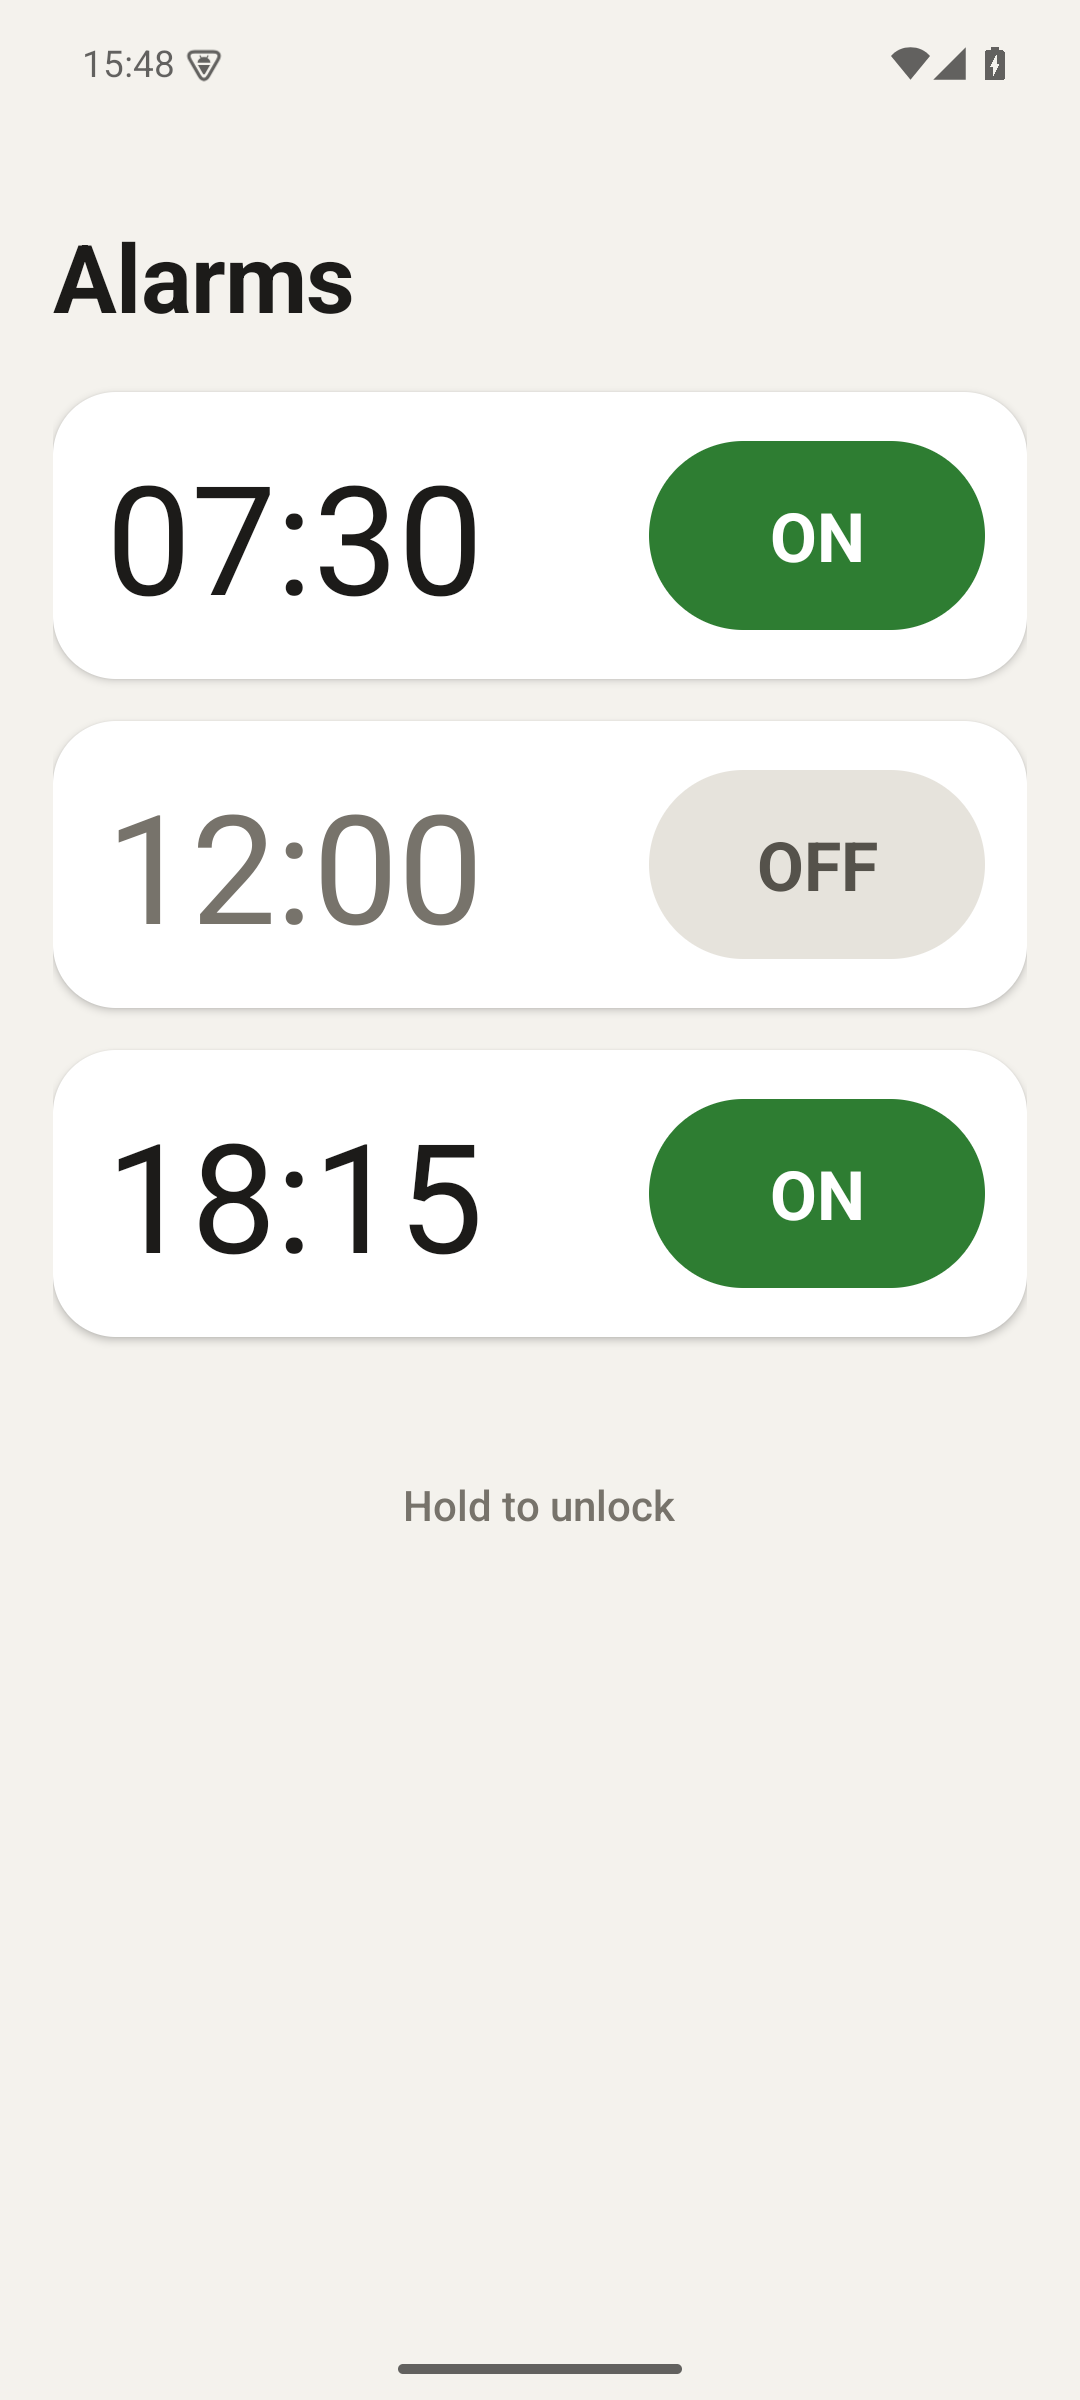
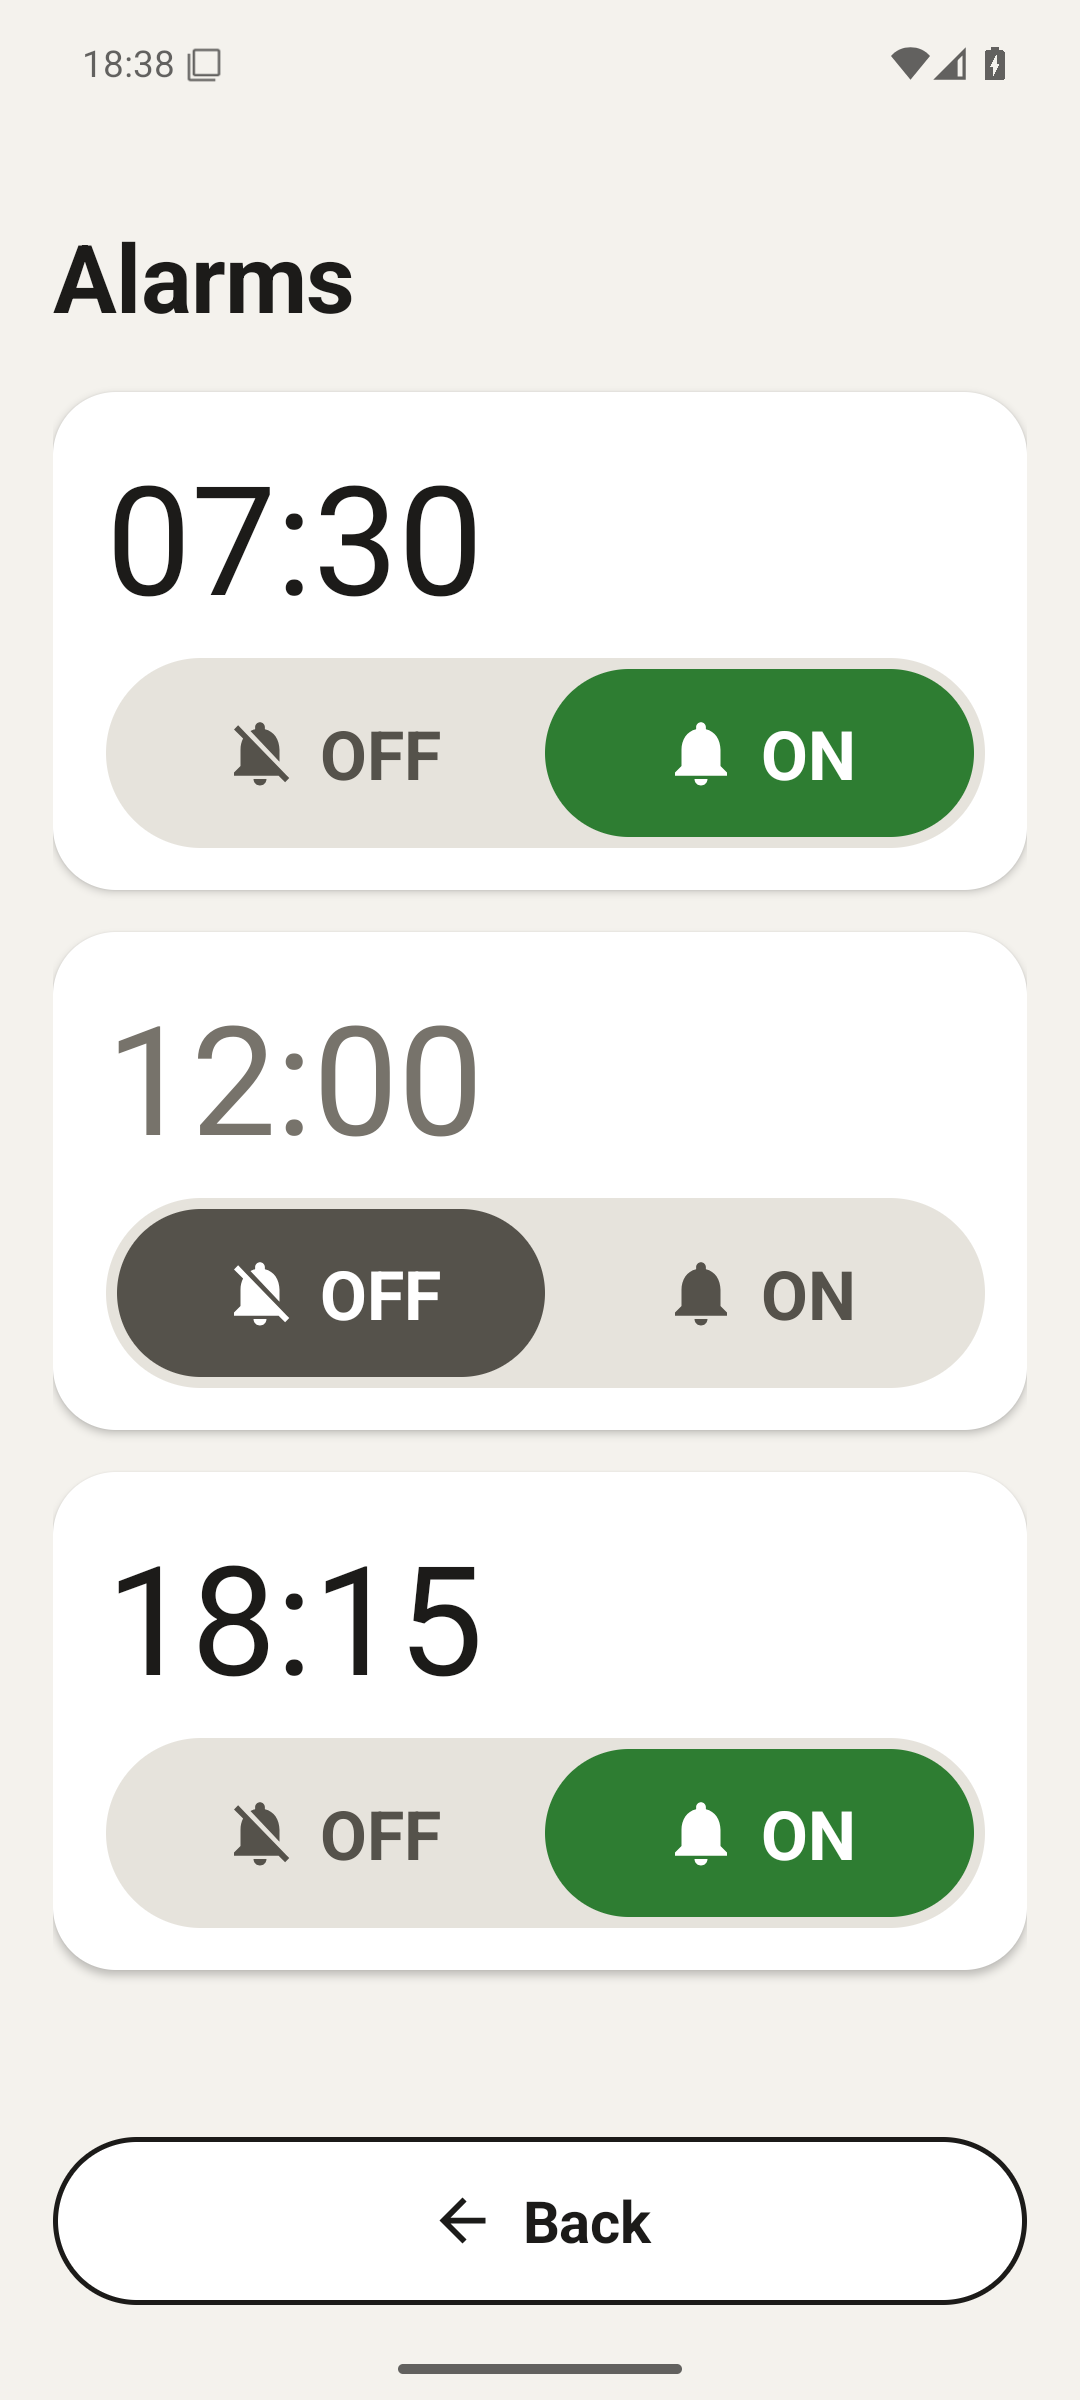
Replace the ON/OFF button with an OFF | ON switch with bells
The single button showed the alarm's state, but a button reads as an
action: pressing "OFF" turned the alarm ON, which was confusing. Each
alarm now has a wide two-part switch under its time. Both choices are
always visible, the current one is filled (green ON, dark grey OFF),
and you press the word you want. Pressing the side that is already
chosen does nothing.

A bell (crossed out for OFF) sits next to each word as a second cue. The
crossed-out bell is the sign phones already use for "silent". The word
stays, because a bell alone is easy to misread with poor eyesight.

The switch goes under the time rather than beside it, so it can be wide
at any font size. The smoke test now checks that the OFF half is
selected, because both words are always on screen. README screenshots
and texts are updated.

diff --git a/app/src/main/java/app/phueber/senioralert/MainActivity.java b/app/src/main/java/app/phueber/senioralert/MainActivity.java
@@ -252,28 +252,26 @@ public class MainActivity extends Activity {
         card.setBackground(bg);
         card.setElevation(dp(2)); // a soft shadow lifts the card off the page
 
-        LinearLayout top = new LinearLayout(this);
-        top.setGravity(Gravity.CENTER_VERTICAL);
         TextView time = new OneLineText(this, 58);
         time.setText(format(a));
         // OFF alarms fade back, so the ones that will ring stand out at a glance.
         time.setTextColor(getColor(a.enabled ? R.color.text_black : R.color.text_muted));
-        LinearLayout.LayoutParams timeLp = new LinearLayout.LayoutParams(0, LinearLayout.LayoutParams.WRAP_CONTENT, 1);
-        timeLp.setMarginEnd(dp(12)); // a shrunk time must not touch ON/OFF
-        top.addView(time, timeLp);
-        Button toggle = a.enabled
-                ? filled(getString(R.string.state_on), R.color.on_green, 26, 72)
-                : tinted(getString(R.string.state_off), R.color.off_bg, R.color.off_text, 26, 72);
-        toggle.setMinWidth(dp(128));
-        toggle.setMinimumWidth(dp(128));
-        toggle.setOnClickListener(v -> {
-            Alarm changed = a.withEnabled(!a.enabled);
-            store.update(changed);
-            Scheduler.apply(this, changed);
-            rebuild();
-        });
-        top.addView(toggle);
-        card.addView(top);
+        card.addView(time);
+
+        // Two-part switch, OFF | ON: both choices are always visible and you press the
+        // one you want. A single button showing the state read as an action ("OFF"
+        // pressed, alarm went ON).
+        LinearLayout sw = new LinearLayout(this);
+        sw.setPadding(dp(4), dp(4), dp(4), dp(4));
+        GradientDrawable track = new GradientDrawable();
+        track.setColor(getColor(R.color.off_bg));
+        track.setCornerRadius(dp(40));
+        sw.setBackground(track);
+        sw.addView(switchHalf(a, false), new LinearLayout.LayoutParams(0, LinearLayout.LayoutParams.MATCH_PARENT, 1));
+        sw.addView(switchHalf(a, true), new LinearLayout.LayoutParams(0, LinearLayout.LayoutParams.MATCH_PARENT, 1));
+        LinearLayout.LayoutParams swlp = spaced();
+        swlp.topMargin = dp(8);
+        card.addView(sw, swlp);
 
         if (!locked) {
             // Secondary actions: outlined and side by side, so they don't compete with
@@ -300,6 +298,49 @@ public class MainActivity extends Activity {
             card.addView(actions, alp);
         }
         root.addView(card, spaced());
+    }
+
+    /**
+     * One half of the OFF | ON switch. The half matching the alarm's state is filled.
+     * A bell (crossed out for OFF) backs up the word: the sign phones already use
+     * for "silent", and a second cue for anyone who reads the colour or word poorly.
+     */
+    private View switchHalf(Alarm a, boolean on) {
+        boolean active = a.enabled == on;
+        int fg = active ? Color.WHITE : getColor(R.color.off_text);
+        LinearLayout half = new LinearLayout(this);
+        half.setGravity(Gravity.CENTER);
+        half.setMinimumHeight(dp(64));
+        half.setPadding(dp(8), dp(6), dp(8), dp(6));
+        int fill = !active ? Color.TRANSPARENT
+                : getColor(on ? R.color.on_green : R.color.off_text);
+        half.setBackground(ripple(active ? R.color.press_light : R.color.press_dark, fill, 0, 36));
+        half.setSelected(active);
+        String word = getString(on ? R.string.state_on : R.string.state_off);
+        half.setContentDescription(word);
+        half.setClickable(true);
+        half.setOnClickListener(v -> {
+            if (a.enabled == on) return; // already so: nothing to do
+            Alarm changed = a.withEnabled(on);
+            store.update(changed);
+            Scheduler.apply(this, changed);
+            rebuild();
+        });
+
+        TextView label = text(word, 26);
+        label.setTypeface(Typeface.DEFAULT_BOLD);
+        label.setTextColor(fg);
+        label.setImportantForAccessibility(View.IMPORTANT_FOR_ACCESSIBILITY_NO);
+        ImageView bell = new ImageView(this);
+        bell.setImageResource(on ? R.drawable.ic_bell : R.drawable.ic_bell_off);
+        bell.setImageTintList(ColorStateList.valueOf(fg));
+        bell.setImportantForAccessibility(View.IMPORTANT_FOR_ACCESSIBILITY_NO);
+        int size = Math.round(label.getTextSize() * 1.15f); // grows with the font setting
+        LinearLayout.LayoutParams blp = new LinearLayout.LayoutParams(size, size);
+        blp.setMarginEnd(dp(8));
+        half.addView(bell, blp);
+        half.addView(label);
+        return half;
     }
 
     // ---------------------------------------------------------------- warnings
@@ -545,14 +586,9 @@ public class MainActivity extends Activity {
         return t;
     }
 
-    /** Solid button with white text: the main actions (ON, Add alarm, Turn off). */
+    /** Solid button with white text: the main actions (Add alarm, Turn off). */
     private Button filled(String label, int bgRes, int sp, int minHeightDp) {
         return pill(label, getColor(bgRes), Color.WHITE, 0, R.color.press_light, sp, minHeightDp);
-    }
-
-    /** Soft-coloured button with dark text: the resting state (OFF). */
-    private Button tinted(String label, int bgRes, int fgRes, int sp, int minHeightDp) {
-        return pill(label, getColor(bgRes), getColor(fgRes), 0, R.color.press_dark, sp, minHeightDp);
     }
 
     /** White button with a coloured outline: secondary actions (Change time, Delete, Lock). */

diff --git a/README.md b/README.md
@@ -13,7 +13,7 @@ English and German. The app follows the phone's language.
 
 ## What it does
 
-- **Several alarms.** Each one is just a time and a big ON/OFF button.
+- **Several alarms.** Each one is just a time and a big OFF | ON switch.
 - **Rings once.** An alarm that is ON rings once, at its next time, then
   switches itself OFF. To make it ring again, switch it ON again.
 - **Lock with a PIN.** When locked, alarms can only be switched ON and OFF.
@@ -27,15 +27,17 @@ internet, no ads.
 ## What you see
 
 <p>
-  <img src="docs/screenshots/main-locked.png" width="30%" alt="Main screen, locked: alarm times with big ON and OFF buttons">
+  <img src="docs/screenshots/main-locked.png" width="30%" alt="Main screen, locked: alarm times, each with a big OFF | ON switch">
   <img src="docs/screenshots/main-unlocked.png" width="30%" alt="Main screen, unlocked: each alarm also has Change time and Delete">
   <img src="docs/screenshots/ringing.png" width="30%" alt="Ringing over the lock screen: one huge red Turn off button and the time">
 </p>
 
-**Main screen.** A list of alarm times. Next to each time, a big green **ON**
-or grey **OFF** button. Unlocked, each alarm also has **Change time** and
+**Main screen.** A list of alarm times. Under each time is a big switch with
+two halves, **OFF** and **ON**, each with a bell (crossed out for OFF). The
+current choice is filled in: green for ON, dark grey for OFF. To change it,
+press the word you want. Unlocked, each alarm also has **Change time** and
 **Delete**, and at the bottom there are **Add alarm** and **Lock**. Locked,
-only the times and the ON/OFF buttons are left, plus a small **Hold to unlock**
+only the times and the OFF | ON switches are left, plus a small **Hold to unlock**
 at the very bottom. It only reacts when held down, so it cannot be opened by a
 stray tap. The PIN prompt closes by itself if nothing is typed for 10 seconds.
 A big **← Back** button stays at the bottom of the screen and goes to the phone's
@@ -79,7 +81,7 @@ anything that still needs to be allowed. Tap each box and allow it:
 
 Then:
 
-1. Add the alarms and check that they show **ON**.
+1. Add the alarms and check that **ON** is filled in green.
 2. Test it: add an alarm for one or two minutes from now and wait for it.
 3. Make sure the phone's alarm volume is up.
 4. Tap **Lock** and choose a PIN (4 to 8 digits). Write the PIN down somewhere
@@ -117,7 +119,7 @@ Deutsch und Englisch. Die App folgt der Sprache des Telefons.
 
 ## Was die App kann
 
-- **Mehrere Wecker.** Jeder ist nur eine Uhrzeit und ein großer AN/AUS-Knopf.
+- **Mehrere Wecker.** Jeder ist nur eine Uhrzeit und ein großer AUS | AN-Schalter.
 - **Klingelt einmal.** Ein eingeschalteter Wecker klingelt einmal zur nächsten
   passenden Uhrzeit und schaltet sich dann selbst AUS. Damit er wieder
   klingelt, schaltet man ihn wieder AN.
@@ -135,10 +137,12 @@ Einstellungen, kein Konto, kein Internet, keine Werbung.
 Bilder siehe [oben](#what-you-see) (englische Ansicht; auf einem deutschen
 Telefon steht dort AN, AUS, Ausschalten).
 
-**Hauptseite.** Eine Liste mit Weckzeiten. Neben jeder Zeit ein großer grüner
-Knopf **AN** oder grauer Knopf **AUS**. Entsperrt hat jeder Wecker zusätzlich
+**Hauptseite.** Eine Liste mit Weckzeiten. Unter jeder Zeit ein großer
+Schalter mit zwei Hälften, **AUS** und **AN**, jeweils mit einer Glocke
+(durchgestrichen bei AUS). Die aktuelle Wahl ist ausgefüllt: grün für AN,
+dunkelgrau für AUS. Zum Ändern drückt man das Wort, das man möchte. Entsperrt hat jeder Wecker zusätzlich
 **Zeit ändern** und **Löschen**, unten stehen **Wecker hinzufügen** und
-**Sperren**. Gesperrt bleiben nur die Zeiten und die AN/AUS-Knöpfe, ganz unten
+**Sperren**. Gesperrt bleiben nur die Zeiten und die AUS | AN-Schalter, ganz unten
 ein kleines **Zum Entsperren gedrückt halten**. Es reagiert nur, wenn man es
 gedrückt hält, also nicht auf versehentliches Antippen. Die PIN-Abfrage
 schließt sich von selbst, wenn 10 Sekunden lang nichts eingegeben wird.
@@ -186,7 +190,7 @@ erlauben:
 
 Danach:
 
-1. Die Wecker anlegen und prüfen, dass sie **AN** zeigen.
+1. Die Wecker anlegen und prüfen, dass **AN** grün ausgefüllt ist.
 2. Testen: einen Wecker für in ein, zwei Minuten anlegen und abwarten.
 3. Prüfen, dass die Wecker-Lautstärke des Telefons hoch ist.
 4. **Sperren** antippen und eine PIN wählen (4 bis 8 Ziffern). Die PIN an

diff --git a/ARCHITECTURE.md b/ARCHITECTURE.md
@@ -20,7 +20,7 @@ Plain Java, platform APIs only. Keep this file current with every change.
 | `RingActivity` | Ringing screen over the lock screen: one big Turn-off button, volume keys also stop. |
 | `OneLineText` | A `TextView` that stays on one line and shrinks its text only as far as needed to fit its width. Used for both clock times, so a very large phone font never wraps a time ("10:30" / "AM"). The platform autosize needs a fixed height; this needs only the width. |
 | `StopReceiver` | Stops ringing: target of the notification action and of the backup AlarmManager stop. |
-| `MainActivity` | Alarm list, add/edit/toggle/delete, PIN set/lock/unlock (Unlock needs a long press; the PIN prompt closes after 10 s without typing), setup warnings, banner with stop while ringing, and a Back button (left arrow, `ic_arrow_back.xml`) pinned below the scrolling list that opens the home screen (`CATEGORY_HOME`), because many seniors do not know the back gesture. Opens `RingActivity` itself when ringing starts or it is opened while ringing (the system heads-up would otherwise cover the banner). Warnings that affect whether the ring screen can appear (notifications, ringing channel importance, full-screen) also show when locked. |
+| `MainActivity` | Alarm list, add/edit/delete, an OFF | ON switch per alarm (two halves with bells, `ic_bell.xml`/`ic_bell_off.xml`; the active half is filled and `selected`, pressing the active half does nothing), PIN set/lock/unlock (Unlock needs a long press; the PIN prompt closes after 10 s without typing), setup warnings, banner with stop while ringing, and a Back button (left arrow, `ic_arrow_back.xml`) pinned below the scrolling list that opens the home screen (`CATEGORY_HOME`), because many seniors do not know the back gesture. Opens `RingActivity` itself when ringing starts or it is opened while ringing (the system heads-up would otherwise cover the banner). Warnings that affect whether the ring screen can appear (notifications, ringing channel importance, full-screen) also show when locked. |
 
 Pure classes have JVM tests in `app/src/test`; Android-facing classes have none.
 
@@ -53,8 +53,11 @@ Plain platform views built in code, with no layout XML and no UI library. Colour
 icons (`values-v27` adds dark navigation-bar icons). `RingTheme` is all red.
 Both screens use `fitsSystemWindows`, because Android 15 draws apps edge to edge.
 Buttons are rounded `GradientDrawable`s inside the platform `RippleDrawable`,
-so every tap shows feedback. Filled means a main action, tinted means OFF, and
-outlined means a secondary action. The ring screen's button is a clickable
+so every tap shows feedback. Filled means a main action and outlined means a
+secondary action. ON/OFF is a two-part switch rather than one toggle button:
+a single button labelled with the state read as an action (pressing "OFF"
+turned the alarm on), while with both halves visible you press the word you
+want. The ring screen's button is a clickable
 `FrameLayout` that centres the Material alarm icon (`ic_alarm.xml`, a vector)
 with the label. The clock sits below the button, because the system's heads-up
 notification covers the top of the screen. Times use `OneLineText`, so the
